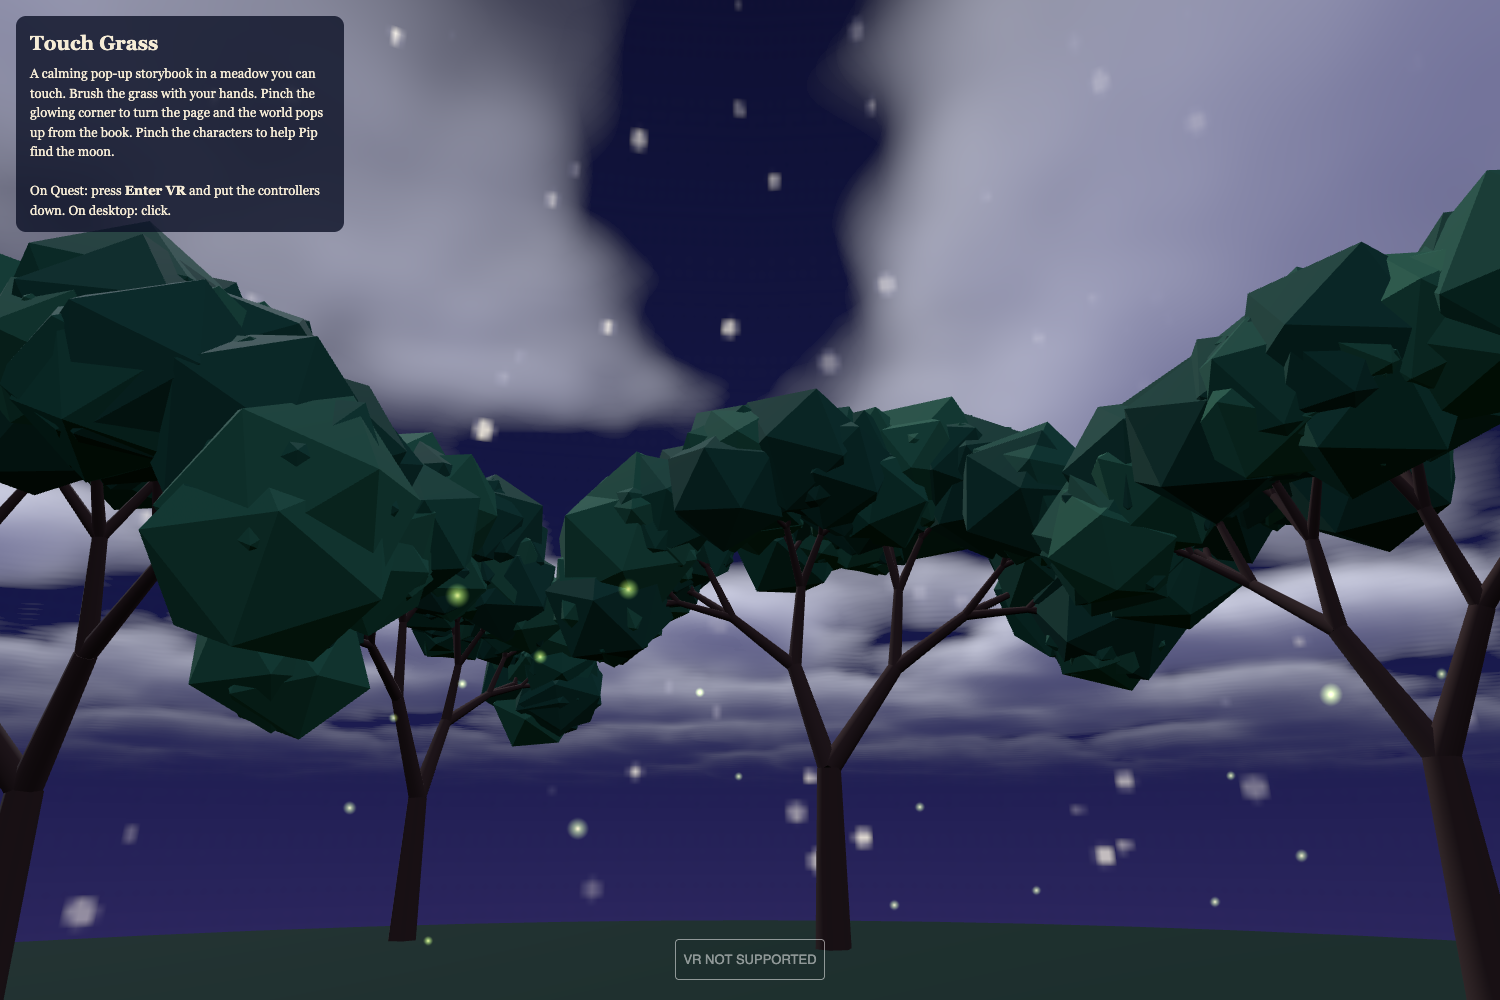
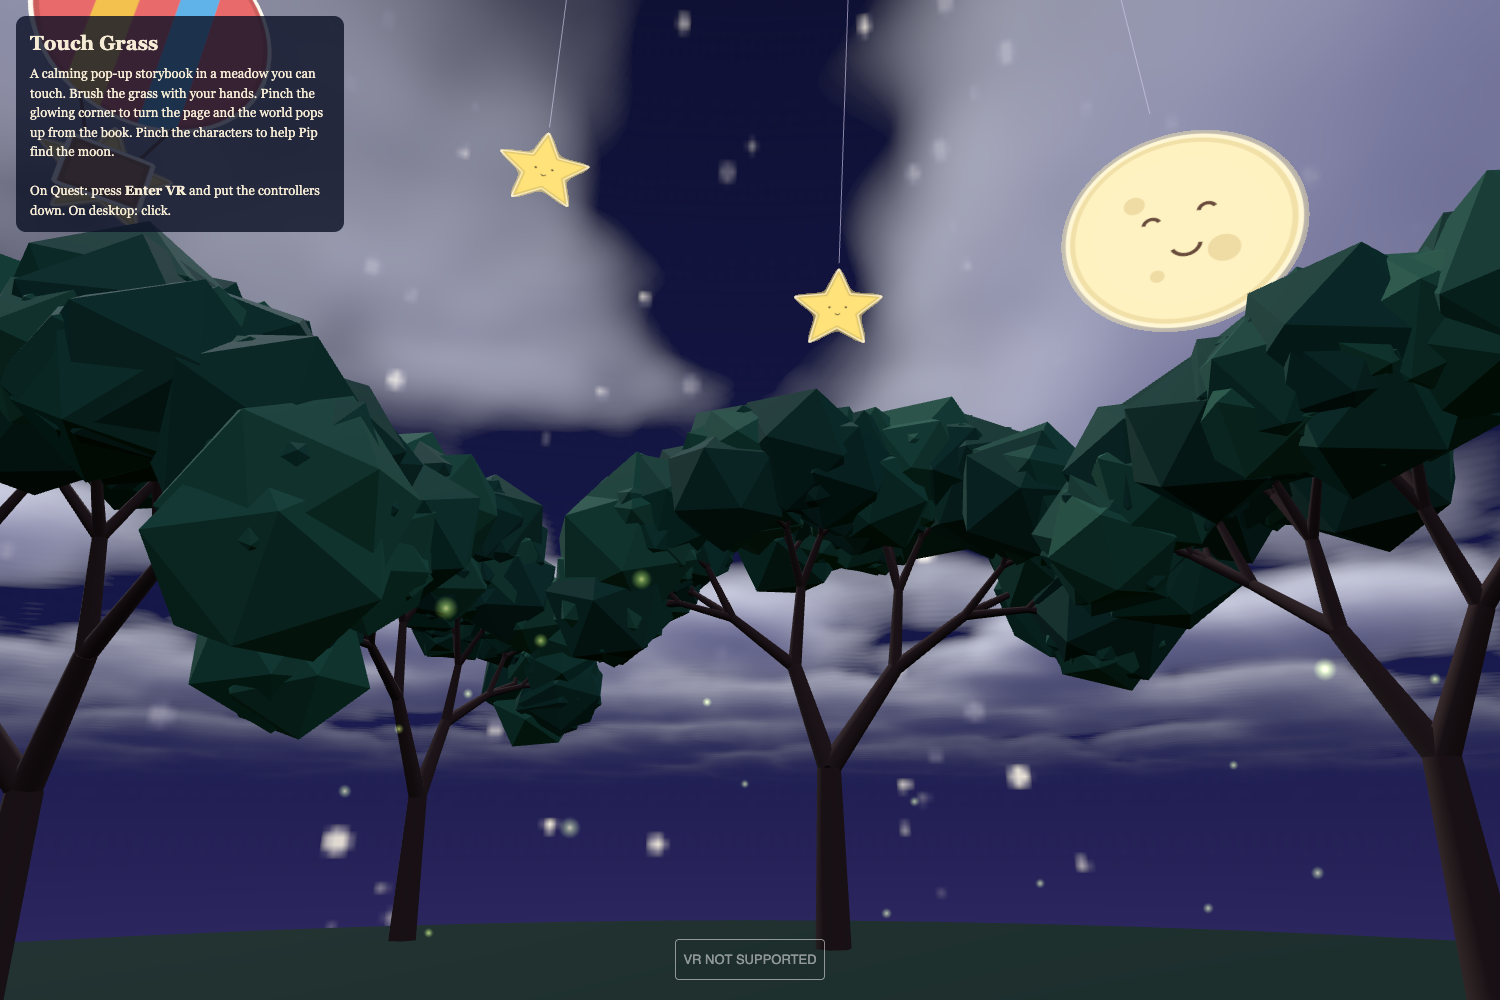
Paper page-flip sound; storybook sky cut-outs (moon, stars, balloon)

diff --git a/main.js b/main.js
@@ -534,6 +534,29 @@ function updateBreath(dt) {
   b.orb.scale.setScalar(b.level);
 }
 
+// Storybook sky: giant paper cut-outs hanging on strings, gently swaying
+const skyToys = [];
+{
+  const string = new THREE.LineBasicMaterial({ color: 0xd8d0f0, transparent: true, opacity: 0.6 });
+  const add = (m, x, y, z, ph) => {
+    const g = new THREE.Group(); g.position.set(x, y, z); g.lookAt(0, y, 0);
+    m.position.y = -m.geometry.parameters.height; g.add(m);
+    g.add(new THREE.Line(new THREE.BufferGeometry().setFromPoints([new THREE.Vector3(0, 0, 0), new THREE.Vector3(0, 3, 0)]), string));
+    g.userData.ph = ph; scene.add(g); skyToys.push(g);
+  };
+  add(cutout(1.1, 1.1, D.moon(true)), 1.6, 2.6, -3.2, 0);
+  [[-2.2, 2.2, -2.8], [-0.9, 2.9, -3.6], [0.4, 2.4, -3.8], [2.8, 2.0, -2.0], [-3.0, 1.8, -1.2], [3.2, 2.5, -0.6]].forEach(([x, y, z], i) => add(cutout(0.45, 0.45, D.star(true)), x, y, z, i + 1));
+  D.balloon = (x, w, h) => {
+    cut(x, () => { x.ellipse(w / 2, h * .36, w * .38, h * .33, 0, 0, 7); }, '#e86a6a');
+    x.save(); x.beginPath(); x.ellipse(w / 2, h * .36, w * .38, h * .33, 0, 0, 7); x.clip();
+    ['#f2c14e', '#5fb3e8'].forEach((c, k) => { x.fillStyle = c; x.fillRect(w * (.3 + k * .24), 0, w * .12, h); }); x.restore();
+    x.strokeStyle = '#6a4a3a'; x.lineWidth = 6; x.beginPath(); x.moveTo(w * .35, h * .66); x.lineTo(w * .42, h * .8); x.moveTo(w * .65, h * .66); x.lineTo(w * .58, h * .8); x.stroke();
+    cut(x, () => x.rect(w * .38, h * .8, w * .24, h * .14), '#b07a4a');
+  };
+  add(cutout(0.8, 1.1, D.balloon), -1.8, 2.7, -2.4, 9);
+}
+function updateSkyToys(t) { skyToys.forEach(g => { g.rotation.z = Math.sin(t * 0.6 + g.userData.ph) * 0.06; g.position.y += Math.sin(t * 0.5 + g.userData.ph) * 0.0004; }); }
+
 function showPage(n) {
   page = n; stage.clear(); pops = []; tappables = []; dim = 0; breath = null; if (holding) breatheEnd();
   PAGES[n].build();
@@ -543,7 +566,7 @@ function showPage(n) {
 let flip = null;
 function turnPage() {
   if (flip) return;
-  note(880, 0.15, 'sine', 0.05);
+  paperSwish();
   const snap = document.createElement('canvas'); snap.width = right.c.width; snap.height = right.c.height;
   snap.getContext('2d').drawImage(right.c, 0, 0);
   const front = new THREE.CanvasTexture(snap); front.colorSpace = THREE.SRGBColorSpace;
@@ -554,7 +577,24 @@ function turnPage() {
   for (const m of [sheet, back]) { m.rotation.x = -Math.PI / 2; m.position.x = PW / 2; g.add(m); }
   stage.visible = false;
   flip = { g, geo, p: 0, swapped: false, base: Float32Array.from(geo.attributes.position.array) };
-  setTimeout(() => note(660, 0.25, 'triangle', 0.03), 250);
+  setTimeout(() => paperThump(), 780);
+}
+function paperSwish() {
+  actx ??= new AudioContext();
+  const len = actx.sampleRate * 0.7, buf = actx.createBuffer(1, len, actx.sampleRate), d = buf.getChannelData(0);
+  for (let i = 0; i < len; i++) { const k = i / len; d[i] = (Math.random() * 2 - 1) * Math.sin(Math.PI * k) * (0.6 + 0.4 * Math.sin(k * 60)) ; }
+  const src = actx.createBufferSource(); src.buffer = buf;
+  const bp = actx.createBiquadFilter(); bp.type = 'bandpass'; bp.Q.value = 0.8;
+  bp.frequency.setValueAtTime(1200, actx.currentTime); bp.frequency.exponentialRampToValueAtTime(4200, actx.currentTime + 0.35); bp.frequency.exponentialRampToValueAtTime(1500, actx.currentTime + 0.7);
+  const g = actx.createGain(); g.gain.value = 0.22;
+  src.connect(bp).connect(g).connect(actx.destination); src.start();
+}
+function paperThump() {
+  const len = actx.sampleRate * 0.12, buf = actx.createBuffer(1, len, actx.sampleRate), d = buf.getChannelData(0);
+  for (let i = 0; i < len; i++) d[i] = (Math.random() * 2 - 1) * Math.pow(1 - i / len, 3);
+  const src = actx.createBufferSource(); src.buffer = buf;
+  const lp = actx.createBiquadFilter(); lp.type = 'lowpass'; lp.frequency.value = 600;
+  const g = actx.createGain(); g.gain.value = 0.35; src.connect(lp).connect(g).connect(actx.destination); src.start();
 }
 function updateFlip(dt) {
   if (!flip) return;
@@ -632,6 +672,7 @@ renderer.setAnimationLoop(() => {
   grassU.uTime.value = t; window.__skyU.uTime.value = t;
   updateWorld(t, dt);
   updateFlip(dt);
+  updateSkyToys(t);
   updateHands();
   updateBreath(dt);
   for (const m of pops) {

diff --git a/index.html b/index.html
@@ -23,6 +23,6 @@
   A calming pop-up storybook in a meadow you can touch. Brush the grass with your hands. Pinch the glowing corner to turn the page and the world pops up from the book. Pinch the characters to help Pip find the moon.<br><br>
   On Quest: press <b>Enter VR</b> and put the controllers down. On desktop: click.
 </div>
-<script type="module" src="./main.js?v=clouds8"></script>
+<script type="module" src="./main.js?v=kids9"></script>
 </body>
 </html>
